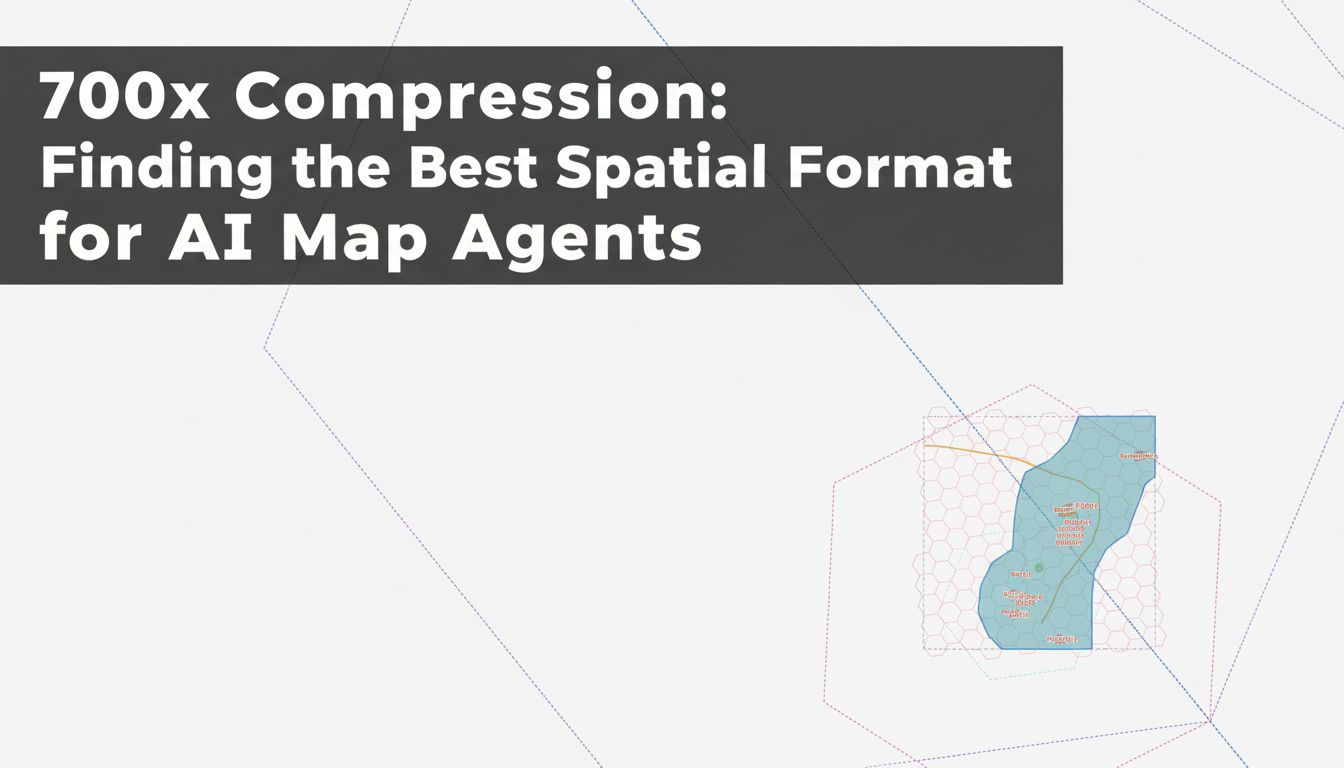
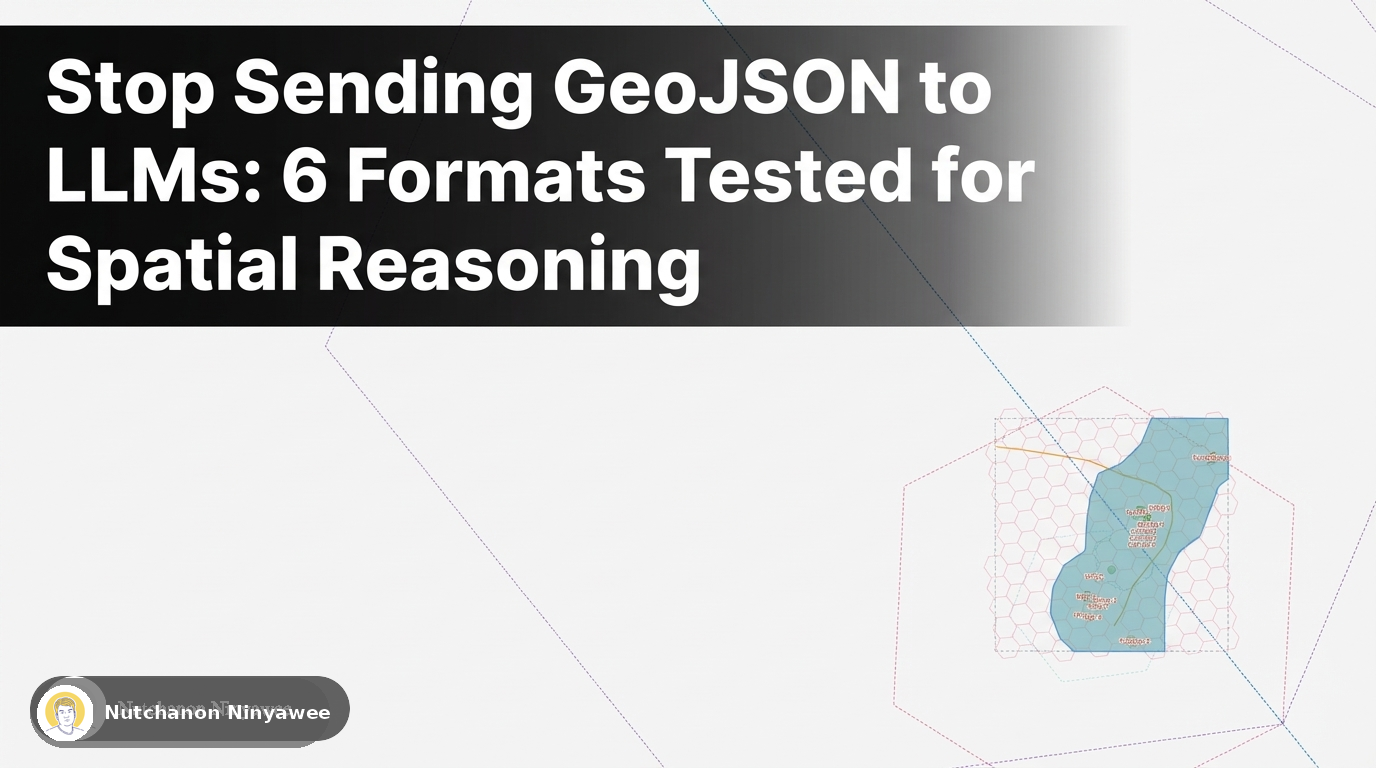
feat: add vite-imagetools for blog images, lightbox, and update blog titles
- Migrate blog images from static/ to src/content/blog/images/ with vite-imagetools WebP transforms
- Add lightbox overlay for blog post images with click-to-zoom
- Update agentic GIS blog post title for clarity
- Add Playwright test dependency

diff --git a/src/lib/lightbox.svelte.ts b/src/lib/lightbox.svelte.ts
@@ -1,0 +1,69 @@
+/**
+ * Svelte action that adds click-to-view-bigger lightbox to all images in an element.
+ */
+export function lightbox(node: HTMLElement) {
+	let overlay: HTMLDivElement | null = null;
+
+	function openLightbox(img: HTMLImageElement) {
+		overlay = document.createElement('div');
+		overlay.className = 'lightbox-overlay';
+
+		const fullImg = document.createElement('img');
+		// Use the highest resolution source available
+		fullImg.src = img.currentSrc || img.src;
+		fullImg.alt = img.alt;
+		fullImg.className = 'lightbox-img';
+
+		overlay.appendChild(fullImg);
+		overlay.addEventListener('click', closeLightbox);
+		document.body.appendChild(overlay);
+		document.body.style.overflow = 'hidden';
+
+		// Animate in
+		requestAnimationFrame(() => {
+			overlay?.classList.add('active');
+		});
+	}
+
+	function closeLightbox() {
+		if (!overlay) return;
+		overlay.classList.remove('active');
+		overlay.addEventListener(
+			'transitionend',
+			() => {
+				overlay?.remove();
+				overlay = null;
+				document.body.style.overflow = '';
+			},
+			{ once: true }
+		);
+	}
+
+	function handleKeydown(e: KeyboardEvent) {
+		if (e.key === 'Escape') closeLightbox();
+	}
+
+	function handleClick(e: Event) {
+		const target = e.target as HTMLElement;
+		if (target.tagName === 'IMG' && target.closest('.content')) {
+			openLightbox(target as HTMLImageElement);
+		}
+	}
+
+	node.addEventListener('click', handleClick);
+	document.addEventListener('keydown', handleKeydown);
+
+	// Style images as clickable
+	const imgs = node.querySelectorAll('img');
+	for (const img of imgs) {
+		img.style.cursor = 'zoom-in';
+	}
+
+	return {
+		destroy() {
+			node.removeEventListener('click', handleClick);
+			document.removeEventListener('keydown', handleKeydown);
+			closeLightbox();
+		}
+	};
+}

diff --git a/src/app.css b/src/app.css
@@ -128,6 +128,31 @@ pre:hover .copy-code-btn {
 	color: #4ade80;
 }
 
+/* Lightbox */
+.lightbox-overlay {
+	position: fixed;
+	inset: 0;
+	z-index: 1000;
+	background: rgba(0, 0, 0, 0.9);
+	display: flex;
+	align-items: center;
+	justify-content: center;
+	cursor: zoom-out;
+	opacity: 0;
+	transition: opacity 0.2s ease;
+}
+
+.lightbox-overlay.active {
+	opacity: 1;
+}
+
+.lightbox-img {
+	max-width: 95vw;
+	max-height: 95vh;
+	object-fit: contain;
+	border-radius: 4px;
+}
+
 table {
 	width: 100%;
 	border-collapse: collapse;

diff --git a/src/routes/blog/[slug]/+page.svelte b/src/routes/blog/[slug]/+page.svelte
@@ -1,6 +1,7 @@
 <script lang="ts">
 	import type { PageData } from './$types';
 	import { copyCode } from '$lib/copy-code.svelte';
+	import { lightbox } from '$lib/lightbox.svelte';
 
 	let { data }: { data: PageData } = $props();
 </script>
@@ -26,7 +27,7 @@
 		<time datetime={data.meta.date}>{formatDate(data.meta.date)}</time>
 	</header>
 
-	<div class="content" use:copyCode>
+	<div class="content" use:copyCode use:lightbox>
 		<data.content />
 	</div>
 

diff --git a/vite.config.ts b/vite.config.ts
@@ -1,7 +1,8 @@
 import devtoolsJson from 'vite-plugin-devtools-json';
+import { imagetools } from 'vite-imagetools';
 import { sveltekit } from '@sveltejs/kit/vite';
 import { defineConfig } from 'vite';
 
 export default defineConfig({
-	plugins: [sveltekit(), devtoolsJson()]
+	plugins: [imagetools(), sveltekit(), devtoolsJson()]
 });
